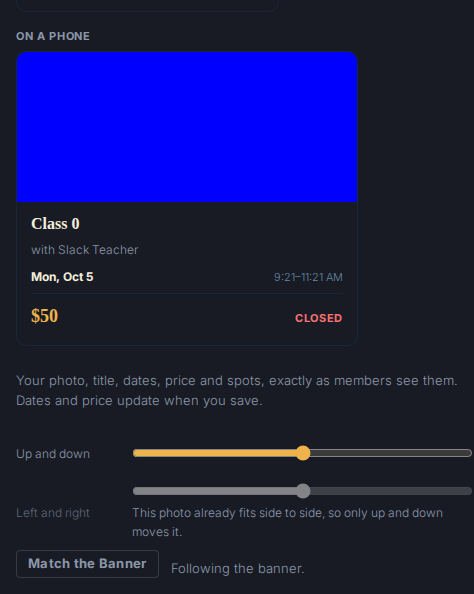
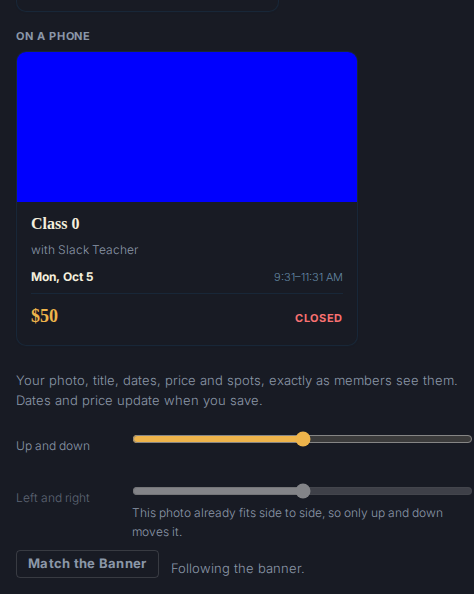
Review round: a photo switch resets the sliders until the new photo loads, and the crop box path is covered
A changed src keeps reporting the old pixels until the new image decodes, so the flags reset to both on a switch and settle on the img's load, or stay open on an error. The e2e drives the boxed branch by picking the Square crop shape on the wide photo. The slider label lines up with the thumb. The fragment carries the PR number.

Claude-Session: fog-feature-round 2026-10-03

Changed region(s): [[0.2658, 0.7273, 1.0, 0.7879], [0.0295, 0.8182, 0.1772, 0.8788], [0.0295, 0.7273, 0.1772, 0.7879]]

diff --git a/static/js/card_focus.js b/static/js/card_focus.js
@@ -108,15 +108,21 @@
                 this.rerender = () => { this.render(); this.measure(); };
                 window.addEventListener("resize", this.rerender);
                 window.addEventListener("composer-step-shown", this.rerender);
-                // A plain frame cannot be measured until its img has pixels. load does not
-                // bubble, so it is caught in the capture phase on the root: one listener
-                // covers every frame img, including the ones x-if renders later.
+                // A plain frame cannot be measured until its img has pixels. load and error
+                // do not bubble, so they are caught in the capture phase on the root: one
+                // listener covers every frame img, including the ones x-if renders later. A
+                // photo that never arrives has nothing to measure, so neither slider is off.
                 this.remeasure = (event) => {
-                    if (event.target && event.target.matches && event.target.matches(FRAME_IMGS)) {
-                        this.measure();
+                    if (!(event.target && event.target.matches && event.target.matches(FRAME_IMGS))) { return; }
+                    if (event.type === "error") {
+                        this.xMoves = "both";
+                        this.yMoves = "both";
+                        return;
                     }
+                    this.measure();
                 };
                 this.$root.addEventListener("load", this.remeasure, true);
+                this.$root.addEventListener("error", this.remeasure, true);
                 this.measure();
             },
 
@@ -124,6 +130,7 @@
                 window.removeEventListener("resize", this.rerender);
                 window.removeEventListener("composer-step-shown", this.rerender);
                 this.$root.removeEventListener("load", this.remeasure, true);
+                this.$root.removeEventListener("error", this.remeasure, true);
             },
 
             input() {
@@ -223,9 +230,11 @@
              * on one axis only; the other slider writes a value that frame cannot show. The
              * answer per axis is "both", "laptop", "phone" or "none"; the template disables
              * a "none" slider and whyX() / whyY() say what the others move. Never touches
-             * posX, posY or the hidden input. A frame that cannot be measured yet (no size
-             * because its step is off screen, or a plain img whose pixels have not arrived)
-             * keeps the previous answer; the step reveal and the img's load call back. */
+             * posX, posY or the hidden input. A frame with no size (its step is off screen)
+             * keeps the previous answer, which is still that photo's; the step reveal calls
+             * back. A plain img whose pixels have not arrived keeps the answer too, so a
+             * photo switch resets both flags first (watchHeroPreview) and the img's load or
+             * error settles them. */
             measure() {
                 const laptop = this.frameSlack(PHOTOS_FRAMES.laptop);
                 const phone = this.frameSlack(PHOTOS_FRAMES.phone);
@@ -297,7 +306,11 @@
                         this.natural = null;
                         this.render();
                     }
-                    // After Alpine has swapped the frames to the new photo; its load measures again.
+                    // The old photo's verdict means nothing for the new one, and a frame img
+                    // keeps reporting the old pixels until the new ones decode: nothing is off
+                    // until the new photo's load (or error) says so.
+                    this.xMoves = "both";
+                    this.yMoves = "both";
                     this.$nextTick(() => this.measure());
                 };
                 new MutationObserver(sync).observe(preview, { childList: true, subtree: true });

diff --git a/static/css/hub.css b/static/css/hub.css
@@ -7547,14 +7547,16 @@ mark { background: color-mix(in srgb, var(--color-tuscan-yellow) 30%, transparen
 }
 .pl-card-focus__slider-row {
     display: flex;
-    align-items: center;
+    align-items: flex-start;
     gap: 0.75rem;
     min-height: 2.75rem;
 }
+/* Top aligned with the range's thumb, not centred against the range plus its line. */
 .pl-card-focus__slider-label {
     font-size: 0.75rem;
     color: var(--hub-text-muted);
     min-width: 6.5rem;
+    margin-top: 0.3rem;
 }
 .pl-card-focus__range {
     flex: 1;
@@ -7574,9 +7576,11 @@ mark { background: color-mix(in srgb, var(--color-tuscan-yellow) 30%, transparen
     margin: 0.25rem 0 0;
 }
 /* A slider with nothing to move in either frame: disabled by card_focus.js, dimmed here. */
+.pl-card-focus__slider-row--off .pl-card-focus__slider-label {
+    color: var(--hub-text-muted);
+}
 .pl-card-focus__slider-row--off .pl-card-focus__slider-label,
 .pl-card-focus__slider-row--off .pl-card-focus__range {
-    color: var(--hub-text-muted);
     opacity: 0.6;
 }
 .pl-card-focus__reset {

diff --git a/tests/e2e/card_focus_slack_spec.py b/tests/e2e/card_focus_slack_spec.py
@@ -38,6 +38,8 @@ OFF = re.compile(r"pl-card-focus__slider-row--off")
 # tall media strip each measures is 2px narrower: shapes of 1.74 and 2.27.
 LAPTOP = f"{STEP} .pl-card-focus__frame--laptop"
 PHONE = f"{STEP} .pl-card-focus__frame--phone"
+CROPPER = ".cropper-container"
+BOXED = re.compile(r"pl-card-focus__img--boxed")
 
 X_NONE = "This photo already fits side to side, so only up and down moves it."
 Y_NONE = "This photo already fits top to bottom, so only left and right moves it."
@@ -156,8 +158,8 @@ def describe_card_focus_slack():
     def it_names_the_frame_each_slider_moves_when_the_photo_sits_between_the_two_shapes(
         live_server, page, login_via_code, serve_media
     ):
-        # 2000 by 1000 (2.0) is wider than the laptop frame (1.75) and narrower than the phone
-        # frame (2.28): sideways slack on the laptop, vertical slack on the phone. Both sliders
+        # 2000 by 1000 (2.0) is wider than the laptop frame (1.74) and narrower than the phone
+        # frame (2.27): sideways slack on the laptop, vertical slack on the phone. Both sliders
         # live, and each line names the one card it moves. The only shape where neither is off.
         offering = _seed_draft(_seed_instructor(), 2000, 1000)
         login_via_code(EMAIL)
@@ -173,6 +175,36 @@ def describe_card_focus_slack():
         expect(_range(down)).to_be_enabled()
         expect(across).not_to_have_class(OFF)
         expect(down).not_to_have_class(OFF)
+
+    def it_measures_the_crop_box_instead_of_the_photo_once_a_box_is_announced(
+        live_server, page, login_via_code, serve_media
+    ):
+        # The wide landscape alone leaves Up and down dead. Square hands Cropper a 1:1 ratio,
+        # and hero_cropper.js writes and announces the box it fits (600 by 600, as tall as the
+        # photo allows) with no drag: a box narrower than both frames is width fitted, so the
+        # slack flips to vertical and the verdict follows the box, not the photo behind it.
+        offering = _seed_draft(_seed_instructor(), 3000, 600)
+        login_via_code(EMAIL)
+        _open_photos_step(page, live_server, "classes:teach_class_edit", pk=offering.pk)
+        across, down = _row(page, "Left and right"), _row(page, "Up and down")
+        expect(_range(down)).to_be_disabled()
+        expect(_range(across)).to_be_enabled()
+        expect(page.locator(CROPPER)).to_be_visible()
+        page.wait_for_function(
+            "() => { const img = document.querySelector('[data-hero-cropper-preview]');"
+            " return !!(img && img.cropper && img.cropper.ready); }"
+        )
+
+        page.locator('input[name="hero_crop_shape"][value="square"]').check()
+
+        photos = page.locator(CARD_PHOTOS)
+        expect(photos).to_have_count(2)
+        for photo in photos.all():
+            expect(photo).to_have_class(BOXED)
+        expect(_range(across)).to_be_disabled()
+        expect(_why(across)).to_have_text(X_NONE)
+        expect(_range(down)).to_be_enabled()
+        expect(_why(down)).to_be_hidden()
 
     def it_flips_left_and_right_on_when_the_instant_upload_swaps_a_portrait_for_a_wide_one(
         live_server, page, login_via_code, serve_media, tmp_path
